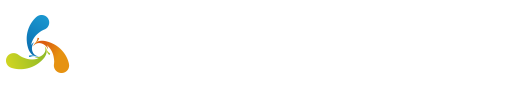
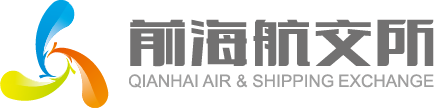
edit

diff --git a/hangjiaosuo/css/style.css b/hangjiaosuo/css/style.css
@@ -3,22 +3,22 @@
 }
 .aj-page{
 	height:1000px;
-	background:#272087 url(../png/page-bg.png) 49px center no-repeat;	
+	background:#272087 url(../png/page-bg.png) 49px center no-repeat;
 }
 .aj-content{
 	position:relative;
 	height:1000px;
 	min-width:820px;
-	max-width:1600px;		
+	max-width:1600px;
 	margin:0 auto;
 	z-index:1;
 }
 .aj-title{
 	float:left;
 	display:block;
-	width:528px;
-	height:88px;
-	margin:35px 0 0 50px;
+	width:434px;
+	height:108px;
+	margin:16px 0 0 50px;
 	font-size:0;
 	background:url(../png/left-title.png) center center no-repeat;
 }
@@ -61,7 +61,7 @@
 }
 
 .aj-lottery  .lists{
-	
+
 }
 
 .aj-lottery  .lists  .people{
@@ -72,7 +72,7 @@
 }
 
 .aj-lottery  .lists  .big-name{
-	
+
 }
 
 .aj-lottery  .lists  .small-name{
@@ -81,7 +81,7 @@
 }
 
 .aj-lottery  .btn-panel{
-	
+
 }
 
 .aj-lottery  .btn-panel .btn{
@@ -151,9 +151,9 @@
 	width:430px;
 	height:768px;
 	margin:0 0 0 -215px;
-	font-size:14px;	
+	font-size:14px;
 }
-.aj-winner .line{ 
+.aj-winner .line{
 	display:block;
 	width:430px;
 	height:95px;
@@ -194,7 +194,7 @@
 }
 .aj-winner .lists .num{}
 .aj-winner .lists .name{}
-.aj-winner .lists .name b{ 
+.aj-winner .lists .name b{
 	padding:0 5px;
 }
 
@@ -205,12 +205,12 @@
 	width:200px;
 	height:500px;
 	margin:0 -450px 0 0;
-	font-size:14px;	
+	font-size:14px;
 	background:#c54a3b;
 	border-radius:10px;
 }
 
-.aj-setting .aj-input{		
+.aj-setting .aj-input{
 	padding:10px 0;
 }
 
@@ -234,7 +234,7 @@
 	text-align:center;
 	color:#b0402f;
 	background:#ffc601;
-	border-bottom:5px solid #e5b201;	
+	border-bottom:5px solid #e5b201;
 }
 
 .aj-lottery  .btn-panel .btn:hover,.aj-setting .aj-btn:hover,.aj-setting .aj-input .btn:hover{
